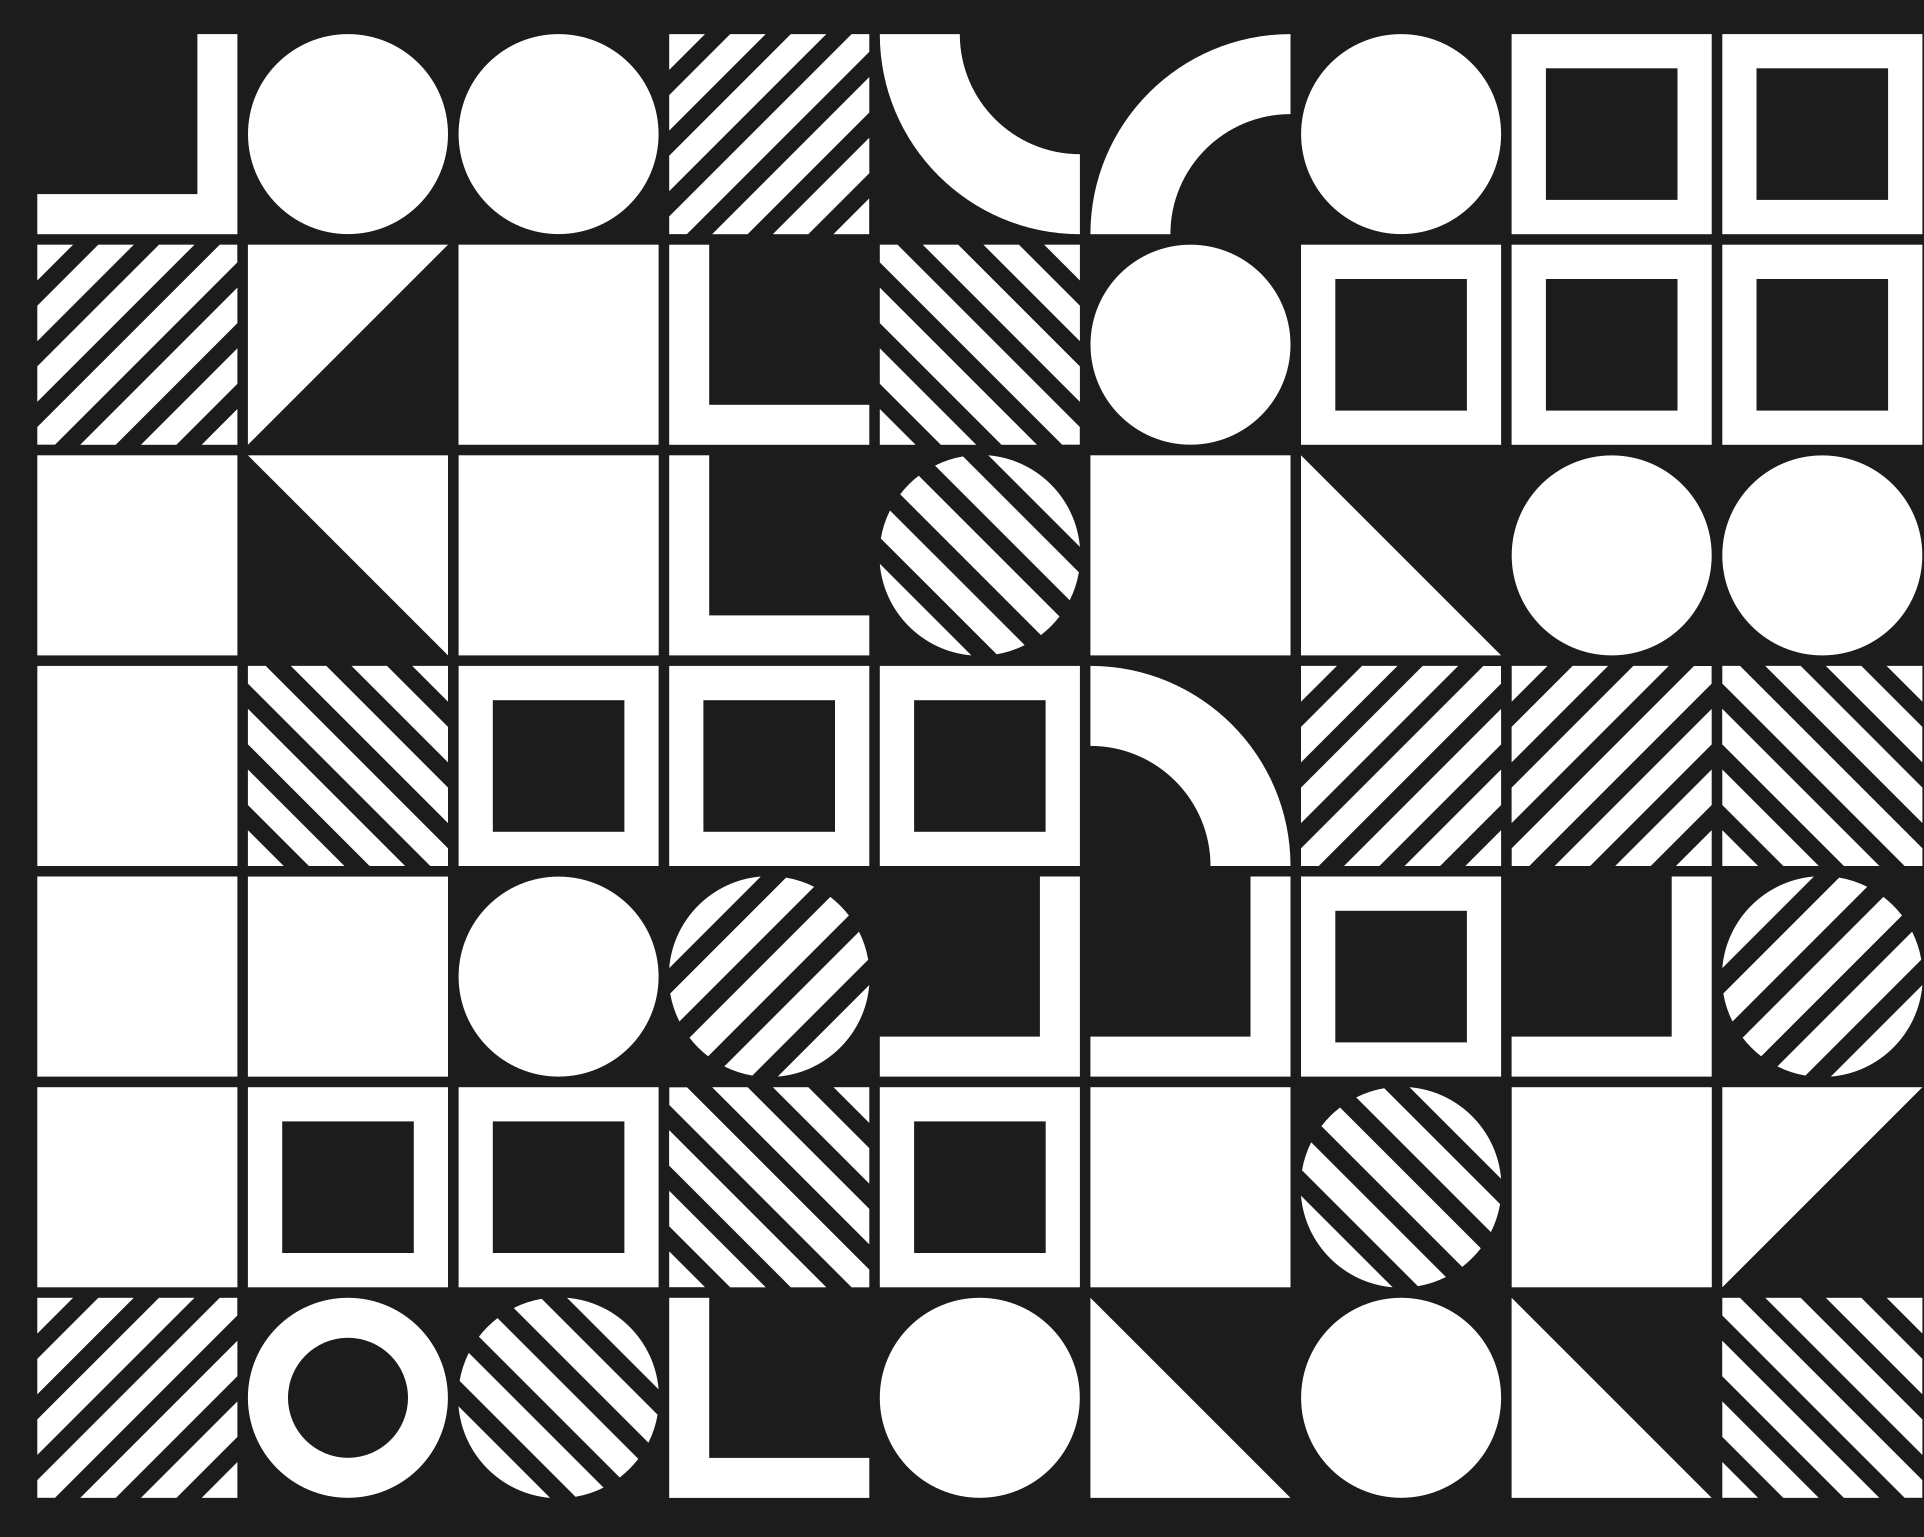
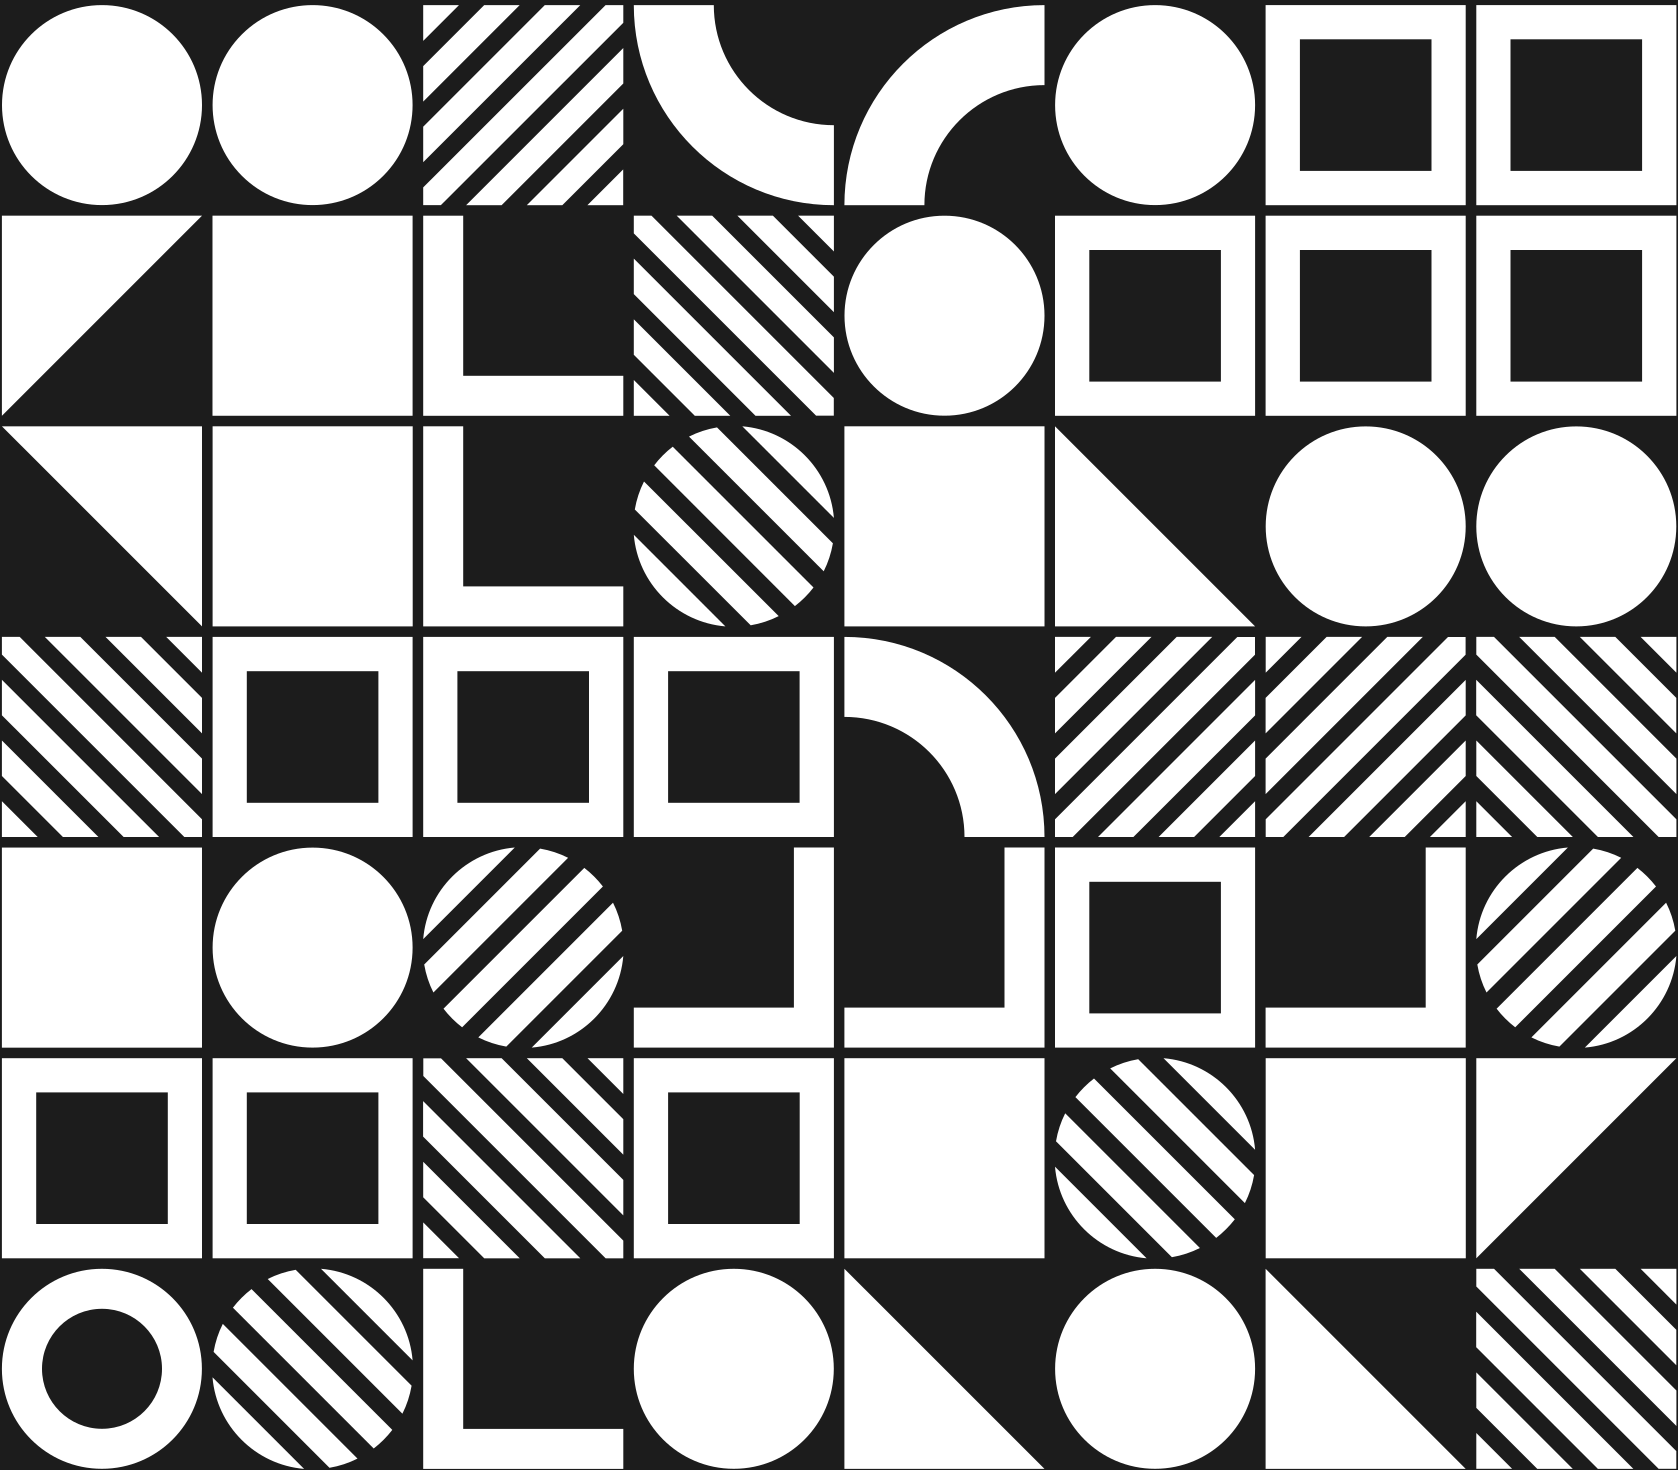
Style background image

diff --git a/styles/_layout.scss b/styles/_layout.scss
@@ -85,9 +85,10 @@ ul {
             &.desktop{
                 height: calc(100% - 30px);
                 width: calc(100% - 30px);
-                background-image: url("../Imgs/background-image2.png");
+                background-image: url("../Imgs/background-image.png");
                 background-size: contain;
                 border: 15px solid white;
+
             }
         }
     }

diff --git a/styles/index.css b/styles/index.css
@@ -78,7 +78,7 @@ ul li {
   .right .image-container.desktop {
     height: calc(100% - 30px);
     width: calc(100% - 30px);
-    background-image: url("../Imgs/background-image2.png");
+    background-image: url("../Imgs/background-image.png");
     background-size: contain;
     border: 15px solid white;
   }
